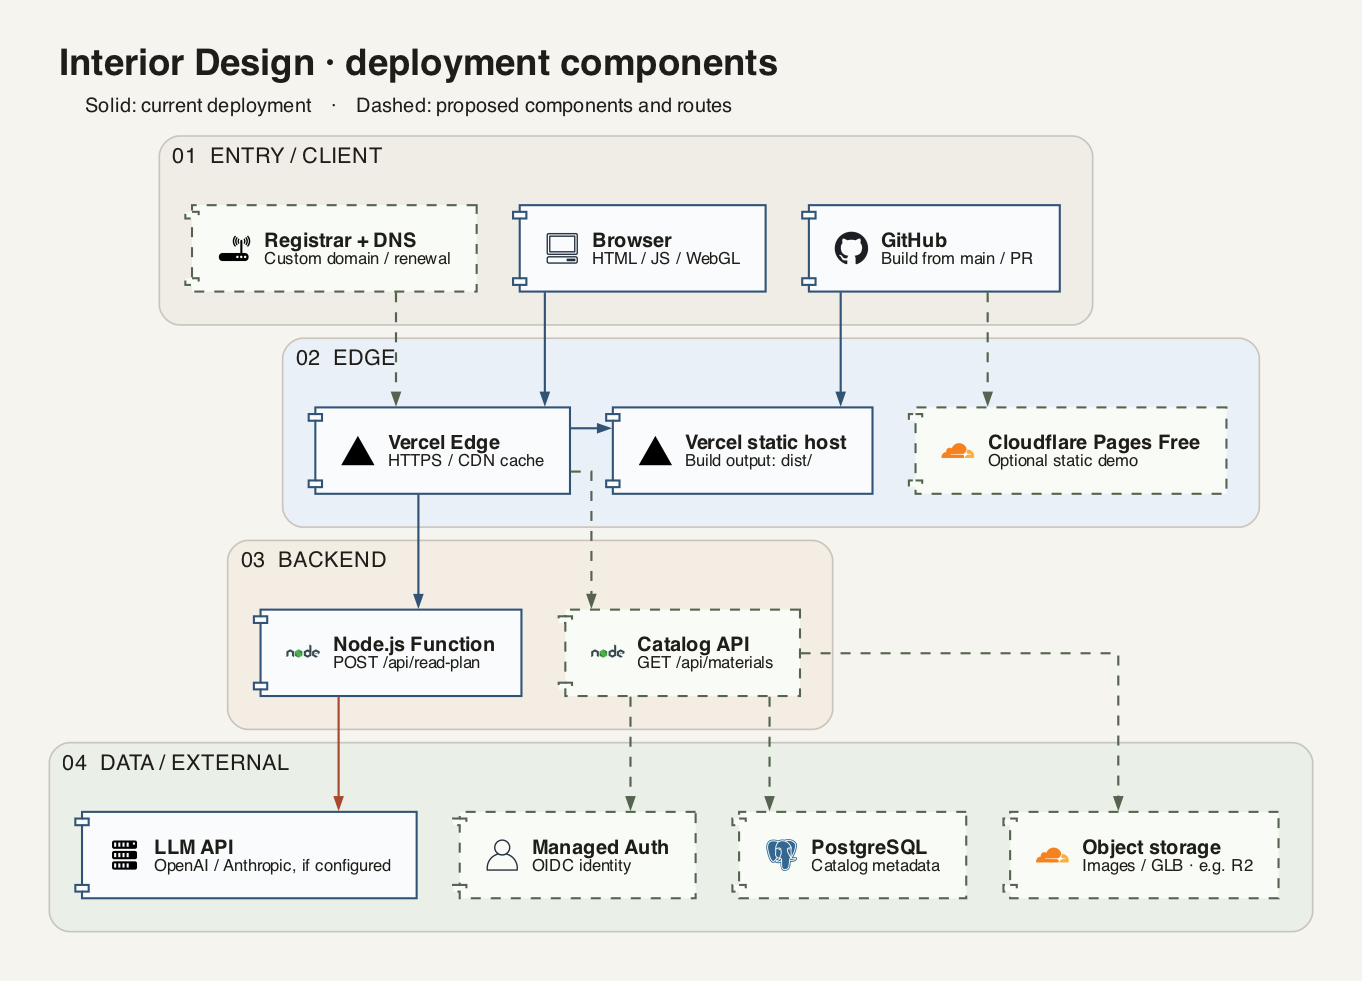
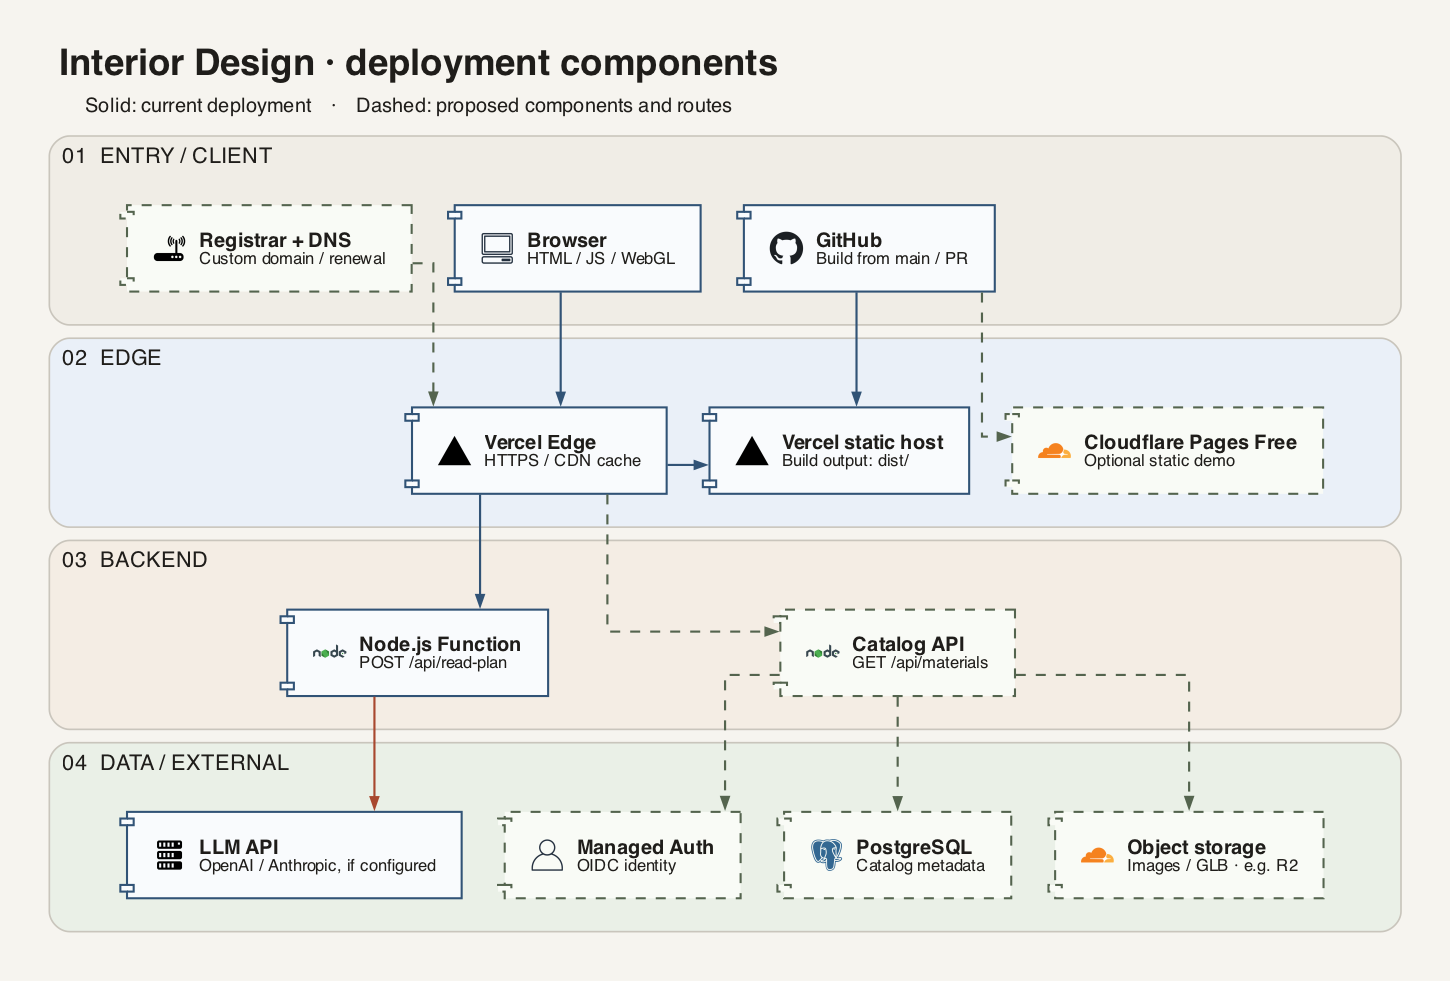
docs: align deployment layers and paths

diff --git a/docs/visual/deployment/render.py b/docs/visual/deployment/render.py
@@ -57,16 +57,22 @@ def component(icon, name, role, proposed=False):
 
 
 def row(group, *components):
+    left, right = (
+        Node("", shape="point", style="invis", width="0.01", height="0.01")
+        for _ in range(2)
+    )
+    ordered = (left, *components, right)
     with group.dot.subgraph() as same_rank:
         same_rank.attr(rank="same")
-        for item in components:
+        for item in ordered:
             same_rank.node(item.nodeid)
-        for left, right in zip(components, components[1:]):
-            same_rank.edge(left.nodeid, right.nodeid, style="invis", weight="40")
+        for before, after in zip(ordered, ordered[1:]):
+            same_rank.edge(before.nodeid, after.nodeid, style="invis", weight="40")
+    return left, right
 
 
-def planned_link():
-    return Edge(color=PLANNED, style="dashed", arrowsize="0.65")
+def planned_link(weight="1"):
+    return Edge(color=PLANNED, style="dashed", arrowsize="0.65", weight=weight)
 
 
 with Diagram(
@@ -109,34 +115,40 @@ with Diagram(
         browser = component(Client, "Browser", "HTML / JS / WebGL")
         domain = component(Router, "Registrar + DNS", "Custom domain / renewal", proposed=True)
         github = component(Github, "GitHub", "Build from main / PR")
-        row(entry, domain, browser, github)
+        entry_bounds = row(entry, domain, browser, github)
 
     with layer("02  EDGE", "#eaf0f8") as delivery:
         static = component(Vercel, "Vercel static host", "Build output: dist/")
         edge = component(Vercel, "Vercel Edge", "HTTPS / CDN cache")
         preview = component(Cloudflare, "Cloudflare Pages Free", "Optional static demo", proposed=True)
-        row(delivery, edge, static, preview)
+        edge_bounds = row(delivery, edge, static, preview)
 
     with layer("03  BACKEND", "#f4ede4") as backend:
         read_plan = component(NodeJS, "Node.js Function", "POST /api/read-plan")
         catalog = component(NodeJS, "Catalog API", "GET /api/materials", proposed=True)
-        row(backend, read_plan, catalog)
+        backend_bounds = row(backend, read_plan, catalog)
 
     with layer("04  DATA / EXTERNAL", "#eaf0e7") as dependencies:
         model = component(Server, "LLM API", "OpenAI / Anthropic, if configured")
         identity = component(User, "Managed Auth", "OIDC identity", proposed=True)
         db = component(Postgresql, "PostgreSQL", "Catalog metadata", proposed=True)
         storage = component(Cloudflare, "Object storage", "Images / GLB · e.g. R2", proposed=True)
-        row(dependencies, model, identity, db, storage)
+        dependency_bounds = row(dependencies, model, identity, db, storage)
 
-    browser >> edge
+    # Align cluster boundaries while keeping the main request path in one column.
+    bounds = (entry_bounds, edge_bounds, backend_bounds, dependency_bounds)
+    for above, below in zip(bounds, bounds[1:]):
+        for start, end in zip(above, below):
+            start >> Edge(style="invis", weight="1000") >> end
+
+    browser >> Edge(weight="200") >> edge
     domain >> planned_link() >> edge
     edge >> static
-    github >> static
+    github >> Edge(weight="40") >> static
     github >> planned_link() >> preview
-    edge >> read_plan
+    edge >> Edge(weight="200") >> read_plan
     edge >> planned_link() >> catalog
-    read_plan >> Edge(color="#a8482f", arrowsize="0.65") >> model
+    read_plan >> Edge(color="#a8482f", arrowsize="0.65", weight="200") >> model
     catalog >> planned_link() >> identity
-    catalog >> planned_link() >> db
+    catalog >> planned_link(weight="40") >> db
     catalog >> planned_link() >> storage
